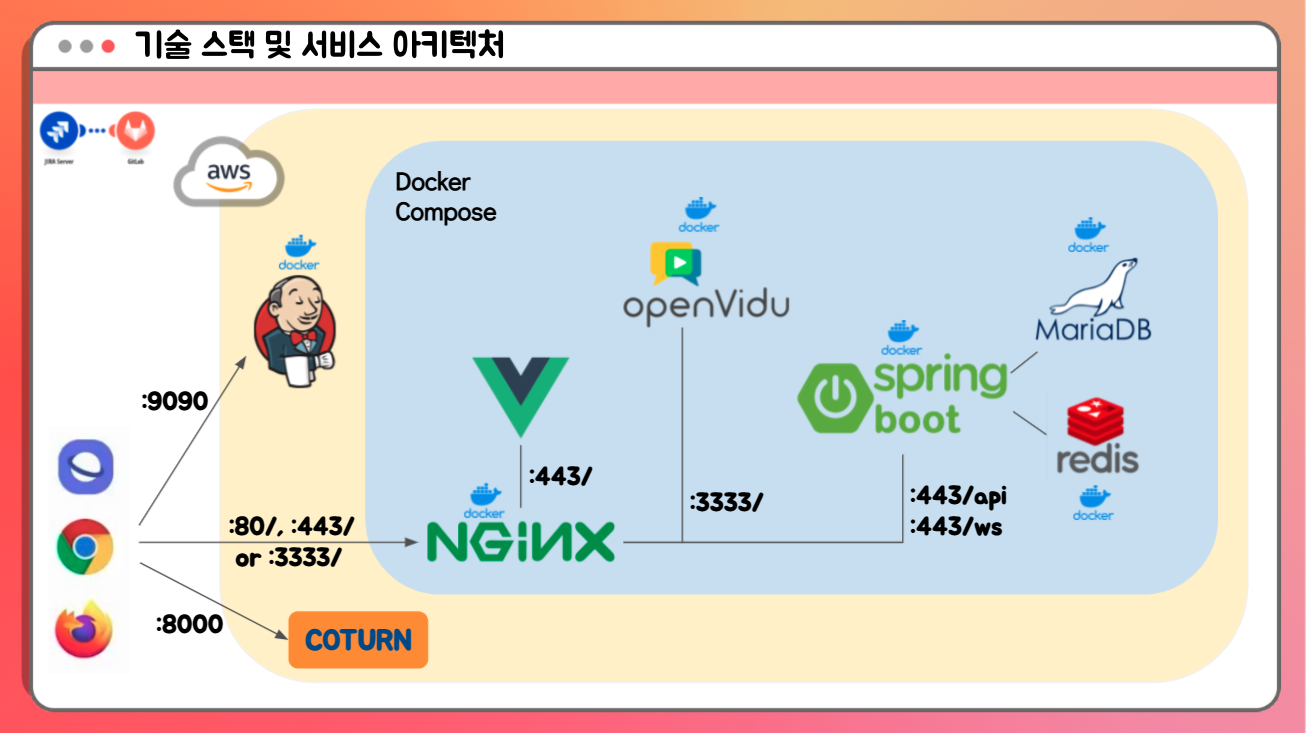
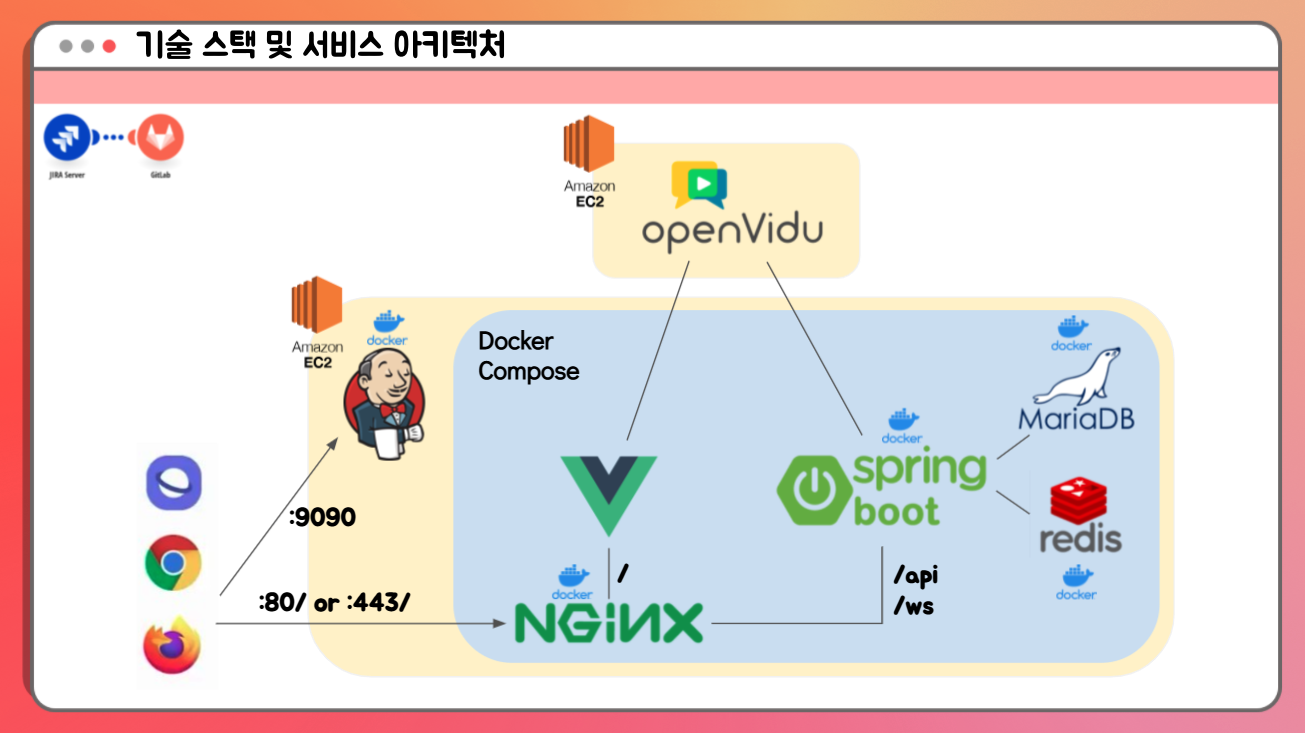
fix : openvidu를 별도 서버에 on-premise로 배포 (#4)
- fix : openvidu를 별도 서버에 on-premise로 배포하고 해당 서버에 접속하도록 변경

- docs : openvidu .env 파일 설정 관련 내용 보강 및 서비스 아키텍처 이미지 수정

diff --git a/README.md b/README.md
@@ -171,9 +171,149 @@
 <br>
 
 ## 🌐 배포 방법
-배포를 하기 위해서는 서버에 docker와 docker-compose가 설치되어 있어야 합니다.  
-docker는 [공식 웹페이지에 나와 있는 debian에서의 설치 방법](https://docs.docker.com/engine/install/debian/#install-using-the-repository)으로 설치합니다.
-docker-compose도 마찬가지로 [공식 웹페이지 설치 방법](https://docs.docker.com/compose/install/)을 통해 설치합니다.
+먼저, 서버가 2대 준비되어 있어야 합니다.
+- openvidu 서버
+- application 서버
+
+### openvidu 서버
+[openvidu에서 제공하는 on-premises 방식](https://docs.openvidu.io/en/2.19.0/deployment/ce/on-premises/)을 참고하여 설치합니다.
+
+#### [전제 조건](https://docs.openvidu.io/en/2.19.0/deployment/ce/on-premises/#1-prerequisites)
+- Docker가 설치되어 있어야 합니다([설치 방법](https://docs.docker.com/engine/install/debian/#install-using-the-repository))
+- `1.24` 이상 버전의 Docker Compose가 설치되어 있어야 합니다([설치 방법](https://docs.docker.com/compose/install/))
+- domain 이름 : https를 사용하기 때문에 domain 이름이 필요합니다
+- port 구성
+  - 다음 port는 열려 있어야 합니다.
+    - 22 TCP: to connect using SSH to admin OpenVidu.
+    - 80 TCP: if you select Let's Encrypt to generate an SSL certificate this port is used by the generation process.
+    - 443 TCP: OpenVidu server and application are published by default in standard https port.
+    - 3478 TCP+UDP: used by TURN server to resolve clients IPs.
+    - 40000 - 57000 TCP+UDP: used by Kurento Media Server to establish media connections.
+    - 57001 - 65535 TCP+UDP: used by TURN server to establish relayed media connections.
+  - 그 외의 모든 port는 닫혀 있어야 합니다.
+  - 다음 port에 대해서는 서버 안에서 다른 프로세스가 사용하지 않도록 한다. 다른 프로세스가 해당 port를 사용하게 되면 openvidu가 정상 동작하지 않을 수 있습니다.
+    - 80 : nginx(HTTP)
+    - 443 : nginx(HTTPS)
+    - 3478 : TRUN server
+    - 5442 : openvidu based applicaiton
+    - 5443 : openvidu server
+    - 6379 : redis for openvidu
+    - 8888 : KMS
+
+
+#### [openvidu 설치](https://docs.openvidu.io/en/2.19.0/deployment/ce/on-premises/#2-deployment)
+먼저 root 권한이 필요합니다.
+```sh
+sudo su
+```
+
+<br>
+openvidu 설치 위치인 `/opt`로 이동합니다.
+```sh
+cd /opt
+```
+
+<br>
+다음 명령어를 통해 openvidu를 설치합니다.
+```sh
+curl https://s3-eu-west-1.amazonaws.com/aws.openvidu.io/install_openvidu_latest.sh | bash
+```
+
+<br>
+/opt 하위에 openvidu 디렉터리가 생성됩니다. 해당 디렉터리로 이동합니다.
+```sh
+cd /opt/openvidu
+```
+
+<br>
+`.env` 파일에서 다음 항목들을 설정합니다.
+```sh
+DOMAIN_OR_PUBLIC_IP=my-openvidu-server.com
+OPENVIDU_SECRET=MY_OPNEVIDU_SECRET
+
+# Certificate type:
+# - selfsigned:  Self signed certificate. Not recommended for production use.
+#                Users will see an ERROR when connected to web page.
+# - owncert:     Valid certificate purchased in a Internet services company.
+#                Please put the certificates files inside folder ./owncert
+#                with names certificate.key and certificate.cert
+# - letsencrypt: Generate a new certificate using letsencrypt. Please set the
+#                required contact email for Let's Encrypt in LETSENCRYPT_EMAIL
+#                variable.
+CERTIFICATE_TYPE=letsencrypt
+
+LETSENCRYPT_EMAIL=example@email.com
+```
+
+`CERTIFICATE_TYPE`을 `letsencrypt`로 설정을 하기 위해서 `LETSENCRYPT_EMAIL`을 유효한 email로 설정해야 합니다.
+그리고 80 포트를 꼭 열어주어야 인증서를 받을 수 있습니다.
+
+<br>
+`/opt/openvidu` 위치에서 다음 명령어로 실행할 수 있습니다
+```sh
+./openvidu start
+```
+
+<br>
+(그 외의 명렁어는 [공식 reference 페이지](https://docs.openvidu.io/en/2.19.0/deployment/ce/on-premises/#5-administration)에서 확인할 수 있습니다).
+
+
+<br>
+참고로, `CERTIFICATE_TYPE`을 `letsencrypt`로 사용한다면 .env 파일에서 HTTPS_PORT를 변경하더라도 적용되지 않으니 default값인 443을 사용해야 합니다.  
+변경을 원한다면 [해당 reference 페이지](https://docs.openvidu.io/en/2.19.0/deployment/deploying-openvidu-apps/#in-a-different-port-as-openvidu ) 참고하면 됩니다.
+
+
+#### openvidu call application 제거 방법
+<https://docs.openvidu.io/en/2.19.0/deployment/deploying-openvidu-apps/#remove-openvidu-call-application>을 참고하였습니다.
+
+openvidu call application이 설치 시에 같이 설치되어 openvidu 실행시에도 같이 실행됩니다.
+
+<br>
+해당 app을 삭제하기 위해서 우선 openvidu를 종료합니다.
+
+```sh
+cd /opt/openvidu
+./openvidu stop
+```
+
+<br>
+`docker-compose.override.yml`을 삭제합니다.
+
+```sh
+rm docker-compose.override.yml
+```
+
+<br>
+openvidu를 다시 실행합니다.
+
+```sh
+ ./openvidu start
+```
+
+
+#### openvidu based application 배포 방법
+<https://docs.openvidu.io/en/2.19.0/deployment/deploying-openvidu-apps/#deploy-other-openvidu-based-application>을 참고하였습니다.
+
+다음 경로에 대해서는 사용하면 안 됩니다.
+- /openvidu/
+- /dashboard/ (only in OpenVidu CE)
+- /inspector/ (only in OpenVidu Pro)
+
+<br>
+dockerized가 되어 있다면 `/opt/openvidu/docker-compose.override.yml` 안에 작성하면 되고, openvidu platform과 생명주기를 같이 합니다.
+
+<br>
+다음 요구 사항이 지켜져야 합니다.
+- network_mode를 host로 해야 합니다.
+- Application은 반드시 https가 아닌 http이어야 합니다.
+- http port는 5442이어야 한다. Openvidu platform의 nginx 설정에서 해당 port로 되어 있습니다.
+- openvidu platform URL은 `http://localhost:5443`입니다.
+- openVidu secret은 환경변수 ${OPENVIDU_SECRET}로 활용 가능합니다.
+
+
+
+### application 서버
+우선, Docker와 Docker Compose가 되어 있어야 합니다.
 
 docker buildkit을 위해 `docker/dockerfile:1` 이미지를 미리 pull 합니다.
 ```sh
@@ -187,11 +327,8 @@ DOCKER_BUILDKIT=1 docker-compose up -d
 
 단, docker-compose를 실행하기 위해서는 `.env` 파일이 필요합니다. `.env`의 내용은 다음과 같습니다.
 ```env
-APP_DOMAIN=example.com
+APP_DOMAIN=my-app.com
 LETSENCRYPT_EMAIL=example@email.com # 반드시 유효한 이메일 주소이어야 한다
-APP_PUBLIC_IP=11.11.11.11
-APP_PRIVATE_IP=172.172.172.172
-OPENVIDU_HTTPS_PORT=3333
 
 # mysql
 MYSQL_USER=myuser
@@ -204,18 +341,9 @@ GOOGLE_CLIENT_SECRET=4r3e2w1q4r3e2w1q
 SPRING_DATASOURCE_USERNAME=${MYSQL_USER}
 SPRING_DATASOURCE_PASSWORD=${MYSQL_PASSWORD}
 JWT_SECRET=1q2w3e4r
-OPENVIDU_URL=https://openvidu:${OPENVIDU_HTTPS_PORT}/
 APP_BASE_URL=https://${APP_DOMAIN}/
-
-# openvidu - 다른 변수를 포함시키면 제대로 동작하지 않는다(값을 직접 입력해주어야 한다)
-KMS_STUN_IP=11.11.11.11
-KMS_STUN_PORT=8000
-KMS_TURN_URL=myuser:mypassword@11.11.11.11:8000?transport=udp
-DOMAIN_OR_PUBLIC_IP=example.com
-HTTPS_PORT=3333
-
-# backend & openvidu
-OPENVIDU_SECRET=MY_SECRET
+OPENVIDU_URL=https://my-openvidu-server.com/
+OPENVIDU_SECRET=MY_OPNEVIDU_SECRET
 ```
 
 ### 첫 배포시 주의 사항
